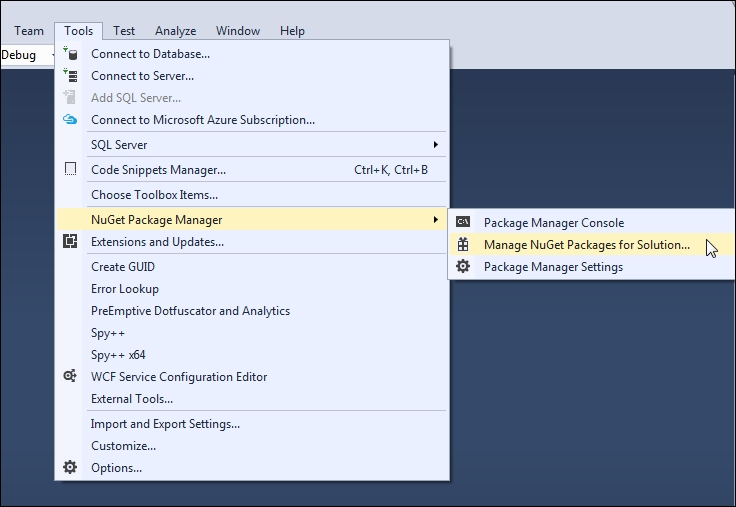
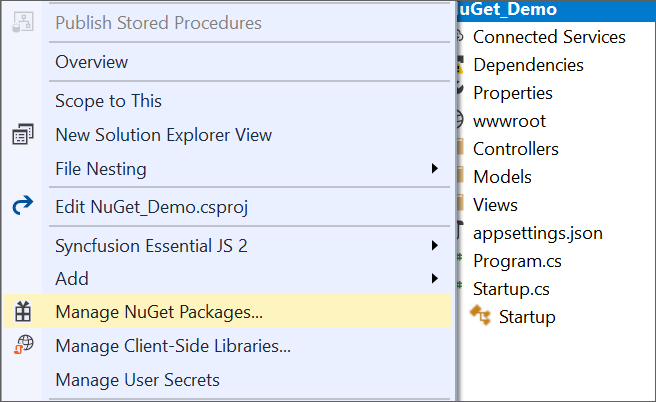
EXT-4130_NugetOrg_Content_added_ASPNETCore_Changes_Committed

diff --git a/aspnet-core/NuGet-Packages.md b/aspnet-core/NuGet-Packages.md
@@ -13,95 +13,38 @@ NuGet is a package manager for the .NET framework. The NuGet client tools simpli
 
 N> You can use the Syncfusion ASP.NET Core NuGet packages without installing the Essential Studio or ASP.NET Core platform installation to implement the Syncfusion ASP.NET Core controls.
 
-## Get the Syncfusion NuGet feed URL
-
-You should get the private Syncfusion ASP.NET Core NuGet feed URL to install or upgrade the Syncfusion ASP.NET Core NuGet packages. To get the URL from Syncfusion website use the following steps:
-
-1. Navigate to [nuget.syncfusion.com](https://nuget.syncfusion.com/), and select **WEB** tab.     
-
-2. Navigate to **WEB(Essential JS1)**, click the Copy URL label under ASP.NET Core platform to copy the Syncfusion ASP.NET Core platform NuGet feed to clipboard or directly use the following URL: 
-
-    [https://nuget.syncfusion.com/nuget_aspnetcore/nuget/getsyncfusionpackages/aspnetcore](https://nuget.syncfusion.com/nuget_aspnetcore/nuget/getsyncfusionpackages/aspnetcore) 
-
-    ![](NuGet_Packages_Images/img1.png)
-
-3. Now, use this NuGet feed URL to access the Syncfusion NuGet Packages in Visual Studio. 
-
-## Add the Syncfusion NuGet feed URL
-
-### Windows
-
-1.	Open your Visual Studio application. 
-
-2.	On the **Tools** menu, select **Options**.
-
-3.	Expand the **NuGet Package Manager** and select **Package Sources**.
-
-4.	Click the **Add** button (green plus), and enter the ‘Package Name’ and ‘Package Source URL’ of the Syncfusion ASP.NET Core NuGet packages.
-    
-    **Name:** Name of the package listed in the available package sources.
-    
-    **Source:** Syncfusion ASP.NET Core NuGet Feed URL      
-    [https://nuget.syncfusion.com/nuget_aspnetcore/nuget/getsyncfusionpackages/aspnetcore](https://nuget.syncfusion.com/nuget_aspnetcore/nuget/getsyncfusionpackages/aspnetcore).
-
-5.	Click the **Update** button to add the name and source details to package sources. 
-
-    ![](NuGet_Packages_Images/img2.png)
-
-### macOS 
-
-1.	Open your Visual Studio application. 
-
-2.	Right-click on the Packages folder in the project, and then select **Add Packages…**
- 
-    ![](NuGet_Packages_Images/img3.png)
-
-3.	Choose the **Configure Sources…** from the dropdown that appears in the left corner of the Add Packages dialog. 
-
-    ![](NuGet_Packages_Images/img4.png)
-
-4.	At the bottom right corner of the dialog, click the **Add** button to enter the feed name and the URL. 
-   
-    **Name:** Enter the name (For e.g., Syncfusion ASP.NET Core Packages).
-   
-    **Location:** Enter the following URL – [https://nuget.syncfusion.com/nuget_aspnetcore/nuget/getsyncfusionpackages/aspnetcore](https://nuget.syncfusion.com/nuget_aspnetcore/nuget/getsyncfusionpackages/aspnetcore).
-
-    ![](NuGet_Packages_Images/img5.png)
- 
-5.	Now, click **Add Source** and then click **OK**.
-
 ## Installing NuGet Packages
 
 ### Using NuGet Package Manager
 
-The NuGet Package Manager can be used to search and install NuGet packages in the Visual Studio solution or project:
+The NuGet Package Manager can be used to search and install NuGet packages in the Visual Studio solution or project.
 
-1.	On the **Tools**, menu, NuGet `Package Manager | Manage NuGet Packages for Solution...`
+1.	Right-click the project or solution in the Solution Explorer tab, and choose **Manage NuGet Packages…**
 
     ![](NuGet_Packages_Images/img6.png)
 
-    Alternatively, right-click on the project/solution in Solution Explorer tab, and choose **Manage NuGet Packages…**
+    Alternatively, click **Tools**, menu, `NuGet Package Manager | Manage NuGet Packages for Solution...`
 
-2.	By default, the NuGet.org package is selected in the **Package source** drop-down. Select your appropriate feed name that you configured. 
+2.	By default, the NuGet.org package is selected in the **Package source** drop-down. If NuGet.org is not configured in your Visual Studio, refer to the [Microsoft docs](https://docs.microsoft.com/en-us/nuget/tools/package-manager-ui#package-sources) to configure NuGet.org feed URL in your Visual Studio. 
 
      ![](NuGet_Packages_Images/img7.png)             
 
 3.	The Syncfusion ASP.NET Core NuGet Packages are listed and available in the package source feed URL. Search and install the required packages in your application, by clicking **Install** button.
 
+N> The Syncfusion NuGet packages are published in public [NuGet.org](https://www.nuget.org/) from v16.2.0.46. So, If you need to Install earlier version of 16.2.0.46 Syncfusion NuGet packages, [configure Syncfusion private feed URL](https://help.syncfusion.com/extension/syncfusion-nuget-packages/nuget-packages#syncfusion-nuget-feed-url-configuration).
+
+
 ### Using Package Manager Console
 
-To reference the Syncfusion ASP.NET Core component using the Package Manager Console as NuGet packages, 
+To reference the Syncfusion ASP.NET Core component using the Package Manager Console as NuGet packages, follow the below steps. 
 
 1.	On the **Tools** menu, select **NuGet Package Manager** and then **Package Manager Console**. 
 
-2.	Run the following NuGet installation commands: 
+2.	Run the following NuGet installation commands. 
 
     ~~~
     #install specified package in default project
     Install-Package <Package Name>
-
-    #install specified package in default project with specified package source
-    Install-Package <Package Name> -Source <Source Location>
 
     #install specified package in specified project 
     Install-Package <Package Name> - ProjectName <Project Name>
@@ -113,22 +56,19 @@ To reference the Syncfusion ASP.NET Core component using the Package Manager Con
     #install specified package in default project
     Install-Package Syncfusion.EJ.AspNet.Core
 
-    #install specified package in default project with specified Package Source
-    Install-Package Syncfusion.EJ.AspNet.Core -Source “https://nuget.syncfusion.com/nuget_aspnetcore/nuget/getsyncfusionpackages/aspnetcore”
-
     #install specified package in specified project 
     Install-Package Syncfusion.EJ.AspNet.Core -ProjectName SyncfusionDemoApplication
     ~~~
 
 ### Using Visual Studio for macOS
 
-Add packages can be used to search and install NuGet packages to the Visual Studio project in macOS:
+Add packages can be used to search and install NuGet packages to the Visual Studio project in macOS.
 
-1.	Right-click on the folder in the project, and then select **Add Packages…** 
+1.	Right-click the folder in the project, and then select **Add Packages…** 
 
     ![](NuGet_Packages_Images/img8.png)  
               
-2.	By default, the NuGet.org package is selected in the **Package source** drop-down. Select the appropriate feed name. 
+2.	By default, the NuGet.org package is selected in the **Package source** drop-down. 
 
     ![](NuGet_Packages_Images/img9.png)  
 
@@ -142,35 +82,13 @@ The NuGet Command Line Interface (CLI), nuget.exe, provides the full extent of N
 
 1.	Download the latest NuGet CLI from [here](https://dist.nuget.org/win-x86-commandline/latest/nuget.exe).
 
-    N> To update the existing nuget.exe to latest version use the following command:
+    N> To update the existing nuget.exe to latest version use the following command.
 
     ~~~
     nuget update -self
     ~~~
 
-2.	Open the downloaded executable location in the command window, and run the following commands to configure the Syncfusion ASP.NET Core NuGet packages: 
-
-    ~~~
-    #Add specified package source in NuGet.config file for Windows platform
-    nuget.exe Sources Add –Name <Source name> –Source <Source location>
-
-    #Add specified Package Source in Nuget.config file for MAC/Linux platform
-    mono nuget.exe Sources Add –Name <Source name> –Source <Source location>
-    ~~~
-
-    **For example:**
-
-    ~~~
-    #For Windows platform
-    nuget.exe Sources Add –Name “Syncfusion Source” –Source “https://nuget.syncfusion.com/nuget_aspnetcore/nuget/getsyncfusionpackages/aspnetcore”
-
-    #For MAC/Linux platform
-    mono nuget.exe Sources Add –Name “Syncfusion Source” –Source “https://nuget.syncfusion.com/nuget_aspnetcore/nuget/getsyncfusionpackages/aspnetcore”
-    ~~~
-
-### NuGet installation
-
-Download and install the required NuGet packages to a project specified in the package.config. 
+2.	Open the downloaded executable location in the command window, and run the following commands to download and install the required NuGet packages to a project specified in the package.config. 
 
 ~~~
 #install specified package in default project from specified package source for Windows Platform 
@@ -191,17 +109,11 @@ nuget.exe install “Syncfusion.EJ.AspNet.Core”
 #install all package which mention in package.config path for Windows 
 nuget.exe install “C:\Users\SyncfusionApplication\package.config”
 
-#install specific Syncfusion NuGet package with Syncfusion ASP.NET Core NuGet feed for Windows 
-nuget.exe install “Syncfusion.EJ.AspNet.Core”  –Source https://nuget.syncfusion.com/nuget_aspnetcore/nuget/getsyncfusionpackages/aspnetcore”
-
 #install specific package for Mac and Linux 
 mono nuget.exe install “ Syncfusion.EJ.AspNet.Core”
 
 #install all package which mention in package.config path for Mac and Linux 
 mono nuget.exe install “C:\Users\SyncfusionApplication\package.config”
-
-#install specific Syncfusion NuGet package with Syncfusion ASP.NET Core NuGet feed for Mac and Linux 
-mono nuget.exe install “Syncfusion.EJ.AspNet.Core”  –Source “https://nuget.syncfusion.com/nuget_aspnetcore/nuget/getsyncfusionpackages/aspnetcore”
 ~~~
 
 ## Managing NuGet package using Dotnet CLI
@@ -210,19 +122,19 @@ The NuGet Command Line Interface (CLI), Dotnet.exe, provides the full extent of 
 
 1.	Open command prompt window with administrator privileges and navigate to your project folder.
 
-2.	The specified ASP.NET Core NuGet package command as below,
+2.	The specified ASP.NET Core NuGet package command as follows:
 
     **Add**
 
     ~~~
     #Add specified package in specified project from Package Source
-    dotnet add package <Package name> [-s|--source] <Source location>
+    dotnet add package <Package name>
     ~~~
 
     **For example :**
 
     ~~~        
-    dotnet add package Syncfusion.EJ.AspNet.Core  -s “https://nuget.syncfusion.com/nuget_aspnetcore/nuget/getsyncfusionpackages/aspnetcore”
+    dotnet add package Syncfusion.EJ.AspNet.Core
     ~~~
 
     **Restore**
@@ -236,12 +148,12 @@ The NuGet Command Line Interface (CLI), Dotnet.exe, provides the full extent of 
 
 ## Upgrading NuGet packages
 
-### Using NuGet Package Manger 
+### Using NuGet Package Manager 
 
 NuGet packages can be updated to their specific version or latest version available in the Visual Studio solution or project:
 
-1. On the **Tools** menu, `NuGet Package Manager | Manage NuGet Packages for Solution...`
-    Alternatively, right-click on project/solution in the Solution Explorer tab, and choose **Manage NuGet Packages…**
+1. Right-click the project or solution in the Solution Explorer tab, and choose **Manage NuGet Packages…**
+   Alternatively, click **Tools** menu, `NuGet Package Manager | Manage NuGet Packages for Solution...`
 
 2. Select the **Updates** tab to see the packages available for update from the desired package sources. Select the required packages and the specific version from the dropdown, and click the **Update** button.
 
@@ -249,17 +161,17 @@ NuGet packages can be updated to their specific version or latest version availa
 
 Using **Update** context menu from Visual Studio for Mac application, NuGet packages can be updated:
 
-1.	Right-click on the Packages folder in the project, and select **Update**. 
+1.	Right-click the Packages folder in the project, and select **Update**.  
 
     ![](NuGet_Packages_Images/img10.png) 
 
-2.	This will update the NuGet package to the latest version. You can double-click Add packages and choose the specific version.
+2.	This will update the NuGet package to the latest version. You can double-click the Add packages and choose the specific version.
 
 N> To update all the projects from solution, use update option in the solution level. 
 
 ### Using Package Manger Console
 
-To update the installed Syncfusion ASP.NET Core NuGet packages using the Package Manager Console: 
+To update the installed Syncfusion ASP.NET Core NuGet packages using the Package Manager Console, follow the below steps. 
 
 1.	On the **Tools** menu, select **NuGet Package Manager**, and then **Package Manager Console.** 
 
@@ -272,9 +184,6 @@ To update the installed Syncfusion ASP.NET Core NuGet packages using the Package
     #Update all the packages in default project
     Update-Package 
 
-    #Update specified package in default project with specified package source
-    Update-Package <Package Name> -Source <Source Location>
-
     #Update specified package in specified project 
     Update-Package <Package Name> - ProjectName <Project Name>
     ~~~
@@ -285,19 +194,17 @@ To update the installed Syncfusion ASP.NET Core NuGet packages using the Package
     #Update specified Syncfusion ASP.NET Core NuGet package 
     Update-Package Syncfusion.EJ.AspNet.Core
 
-    #Update specified package in default project with specified Package Source
-    Update-Package Syncfusion.EJ.AspNet.Core –Source “https://nuget.syncfusion.com/nuget_aspnetcore/nuget/getsyncfusionpackages/aspnetcore” 
     #Update specified package in specified project 
     Update-Package Syncfusion.EJ.AspNet.Core -ProjectName SyncfusionDemoApplication
     ~~~
 
 ### Using NuGet CLI
 
-Using the NuGet CLI, all the NuGet packages in the project can be updated to the available latest version: 
+Using the NuGet CLI, all the NuGet packages in the project can be updated to the available latest version. 
 
 1.	Download the latest NuGet CLI from [here](https://dist.nuget.org/win-x86-commandline/latest/nuget.exe).
 
-    N> To update the existing nuget.exe to latest version use the following command: 
+    N> To update the existing nuget.exe to latest version use the following command. 
 
     ~~~
     nuget update -self
@@ -309,8 +216,8 @@ Using the NuGet CLI, all the NuGet packages in the project can be updated to the
     #update all NuGet packages from config file
     nuget update <configPath> [options]
 
-    #update all NuGet packages from specified Packages Source
-    nuget update -Source <Source Location> [optional]
+    #update all NuGet packages
+    nuget update 
     ~~~      
 
     N> configPath is optional. This identifies the packages.config or solutions file lists the packages utilized in the project. 
@@ -320,15 +227,97 @@ Using the NuGet CLI, all the NuGet packages in the project can be updated to the
     ~~~          
     #Update all NuGet packages from config file
     nuget update “C:\Users\SyncfusionApplication\package.config”
-
-    #Update all NuGet packages from specified Packages Source
-    nuget update -Source “https://nuget.syncfusion.com/nuget_aspnetcore/nuget/getsyncfusionpackages/aspnetcore”
     ~~~
 
     N> Update command is not working as expected in Mono (Mac and Linux) and projects using PackageReference format.
    
+## Syncfusion NuGet feed URL Configuration
 
+### Get the Syncfusion NuGet feed URL 
 
+You should get the private Syncfusion ASP.NET Core NuGet feed URL to install or upgrade the Syncfusion ASP.NET Core NuGet packages. To get the URL from Syncfusion website use the following steps:
 
+1. Navigate to [nuget.syncfusion.com](https://nuget.syncfusion.com/), and select the **WEB** tab.     
+
+2. Navigate to **WEB(Essential JS1)**, click the Copy URL label under ASP.NET Core platform to copy the Syncfusion ASP.NET Core platform NuGet feed to clipboard or directly use the following URL: 
+
+    [https://nuget.syncfusion.com/nuget_aspnetcore/nuget/getsyncfusionpackages/aspnetcore](https://nuget.syncfusion.com/nuget_aspnetcore/nuget/getsyncfusionpackages/aspnetcore) 
+
+    ![](NuGet_Packages_Images/img1.png)
+
+3. Now, use this NuGet feed URL to access the Syncfusion NuGet Packages in Visual Studio. 
+
+### Add the Syncfusion NuGet feed URL
+
+#### Windows
+
+1.	Open your Visual Studio application. 
+
+2.	On the **Tools** menu, select **Options**.
+
+3.	Expand the **NuGet Package Manager** and select **Package Sources**.
+
+4.	Click the **Add** button (green plus), and enter the ‘Package Name’ and ‘Package Source URL’ of the Syncfusion ASP.NET Core NuGet packages.
+    
+    **Name:** Name of the package listed in the available package sources.
+    
+    **Source:** Syncfusion ASP.NET Core NuGet Feed URL.      
+    [https://nuget.syncfusion.com/nuget_aspnetcore/nuget/getsyncfusionpackages/aspnetcore](https://nuget.syncfusion.com/nuget_aspnetcore/nuget/getsyncfusionpackages/aspnetcore).
+
+5.	Click the **Update** button to add the name and source details to package sources. 
+
+    ![](NuGet_Packages_Images/img2.png)
+
+#### macOS 
+
+1.	Open your Visual Studio application. 
+
+2.	Right-click the Packages folder in the project, and then select **Add Packages…**
+ 
+    ![](NuGet_Packages_Images/img3.png)
+
+3.	Choose the **Configure Sources…** from the dropdown that appears in the left corner of the Add Packages dialog. 
+
+    ![](NuGet_Packages_Images/img4.png)
+
+4.	At the bottom right corner of the dialog, click the **Add** button to enter the feed name and the URL. 
+   
+    **Name:** Enter the name (For e.g., Syncfusion ASP.NET Core Packages).
+   
+    **Location:** Enter the following URL – [https://nuget.syncfusion.com/nuget_aspnetcore/nuget/getsyncfusionpackages/aspnetcore](https://nuget.syncfusion.com/nuget_aspnetcore/nuget/getsyncfusionpackages/aspnetcore).
+
+    ![](NuGet_Packages_Images/img5.png)
+ 
+5.	Now, click **Add Source** and then click **OK**.
+
+#### NuGet CLI 
+
+1.	Download the latest NuGet CLI from [here](https://dist.nuget.org/win-x86-commandline/latest/nuget.exe).
+
+    N> To update the existing nuget.exe to latest version use the following command.
+
+    ~~~
+    nuget update -self
+    ~~~
+
+2.	Open the downloaded executable location in the command window, and run the following commands to configure the Syncfusion NuGet packages: 
+
+    ~~~
+    #Add specified package source in NuGet.config file for Windows platform
+    nuget.exe Sources Add –Name <Source name> –Source <Source location>
+
+    #Add specified Package Source in Nuget.config file for MAC/Linux platform
+    mono nuget.exe Sources Add –Name <Source name> –Source <Source location>
+    ~~~
+
+    **For example:**
+
+    ~~~
+    #For Windows platform
+    nuget.exe Sources Add –Name “Syncfusion Source” –Source “http://nuget.syncfusion.com/nuget_aspnetcore/nuget/getsyncfusionpackages/aspnetcore”
+
+    #For MAC/Linux platform
+    mono nuget.exe Sources Add –Name “Syncfusion Source” –Source “http://nuget.syncfusion.com/nuget_aspnetcore/nuget/getsyncfusionpackages/aspnetcore”
+    ~~~
 
 
